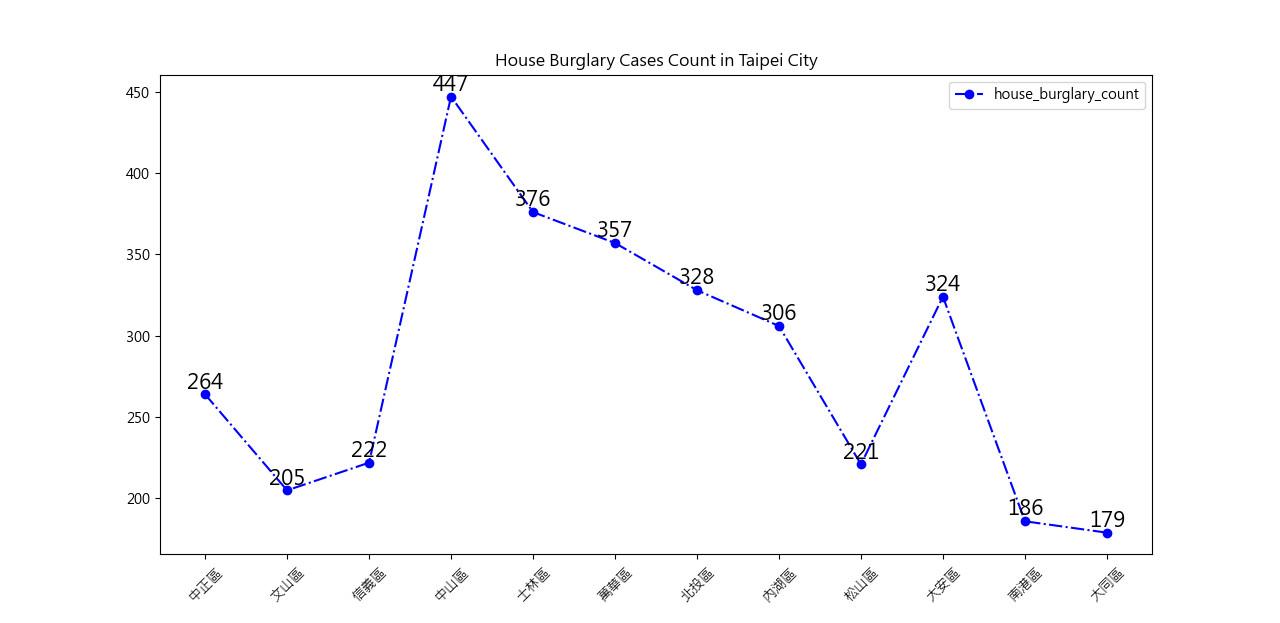
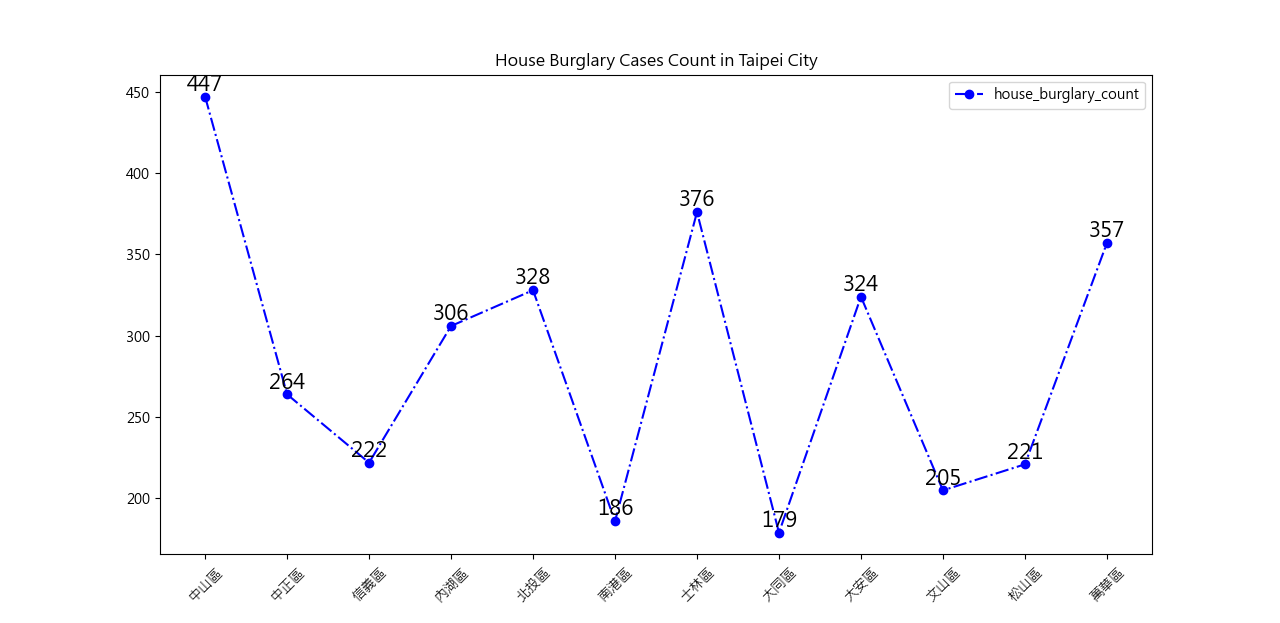
total time plot accomplished.

diff --git a/main.py b/main.py
@@ -12,7 +12,7 @@ data=pd.DataFrame(data)
 print(data.info())#colum information, count, dtype, memory usage
 print("data.index: ",data.index)
 print("data.col: ",data.columns)
-
+total=int(len(data))
 
 year=[]
 month=[]
@@ -27,7 +27,7 @@ data.insert(5,column="year",value=year)
 data.insert(6,column="month",value=month)
 data.insert(7,column="day",value=day)
 
-
+# split administrative areas
 admin_area=[]
 
 for i in data["發生地點"]:
@@ -49,17 +49,37 @@ def build_dict(col):
             d[i]+=1
         else:
             d[i]=1
-    return d
+
+    return dict((key,d[key]) for key in sorted(d.keys()))
+
+
+#analysis time, all
 dict_y=build_dict(year)
 dict_m=build_dict(month)
 dict_d=build_dict(day)
-dict_a=build_dict(admin_area)
 
-#analysis time
+fig, ax = plt.subplots(3,1)
+
+ax[0].plot([i for i in dict_y.keys()],
+           [i for i in dict_y.values()],
+           '.-',
+           label="year")
+ax[0].legend()
+ax[1].bar(dict_m.keys(),
+          dict_m.values(),
+          alpha=0.5,
+          label="month")
+ax[1].legend()
+ax[2].bar(dict_d.keys(),
+          dict_d.values(),
+          alpha=0.5,
+          label="date")
+ax[2].legend()
+plt.show()
 
 
 # analysis administrative area
-total=int(len(data))
+dict_a=build_dict(admin_area)
 house_burglary_amount = [i for i in dict_a.values()]
 area_name = [i for i in dict_a.keys()]
 target=data["administrative area"]
